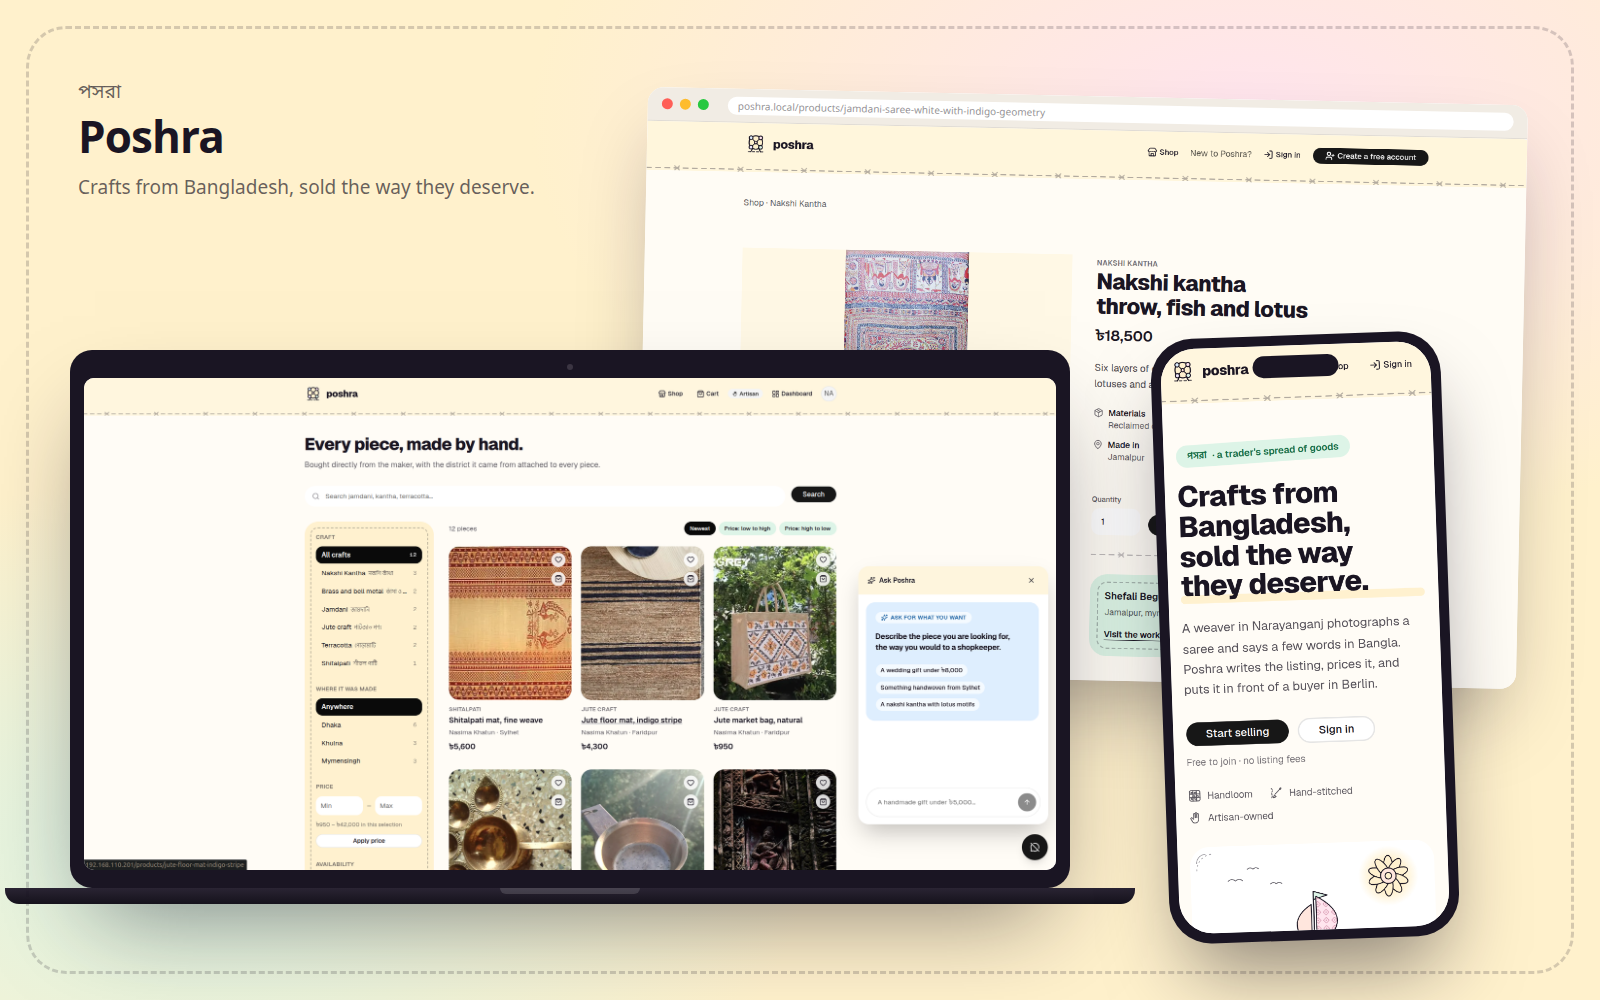
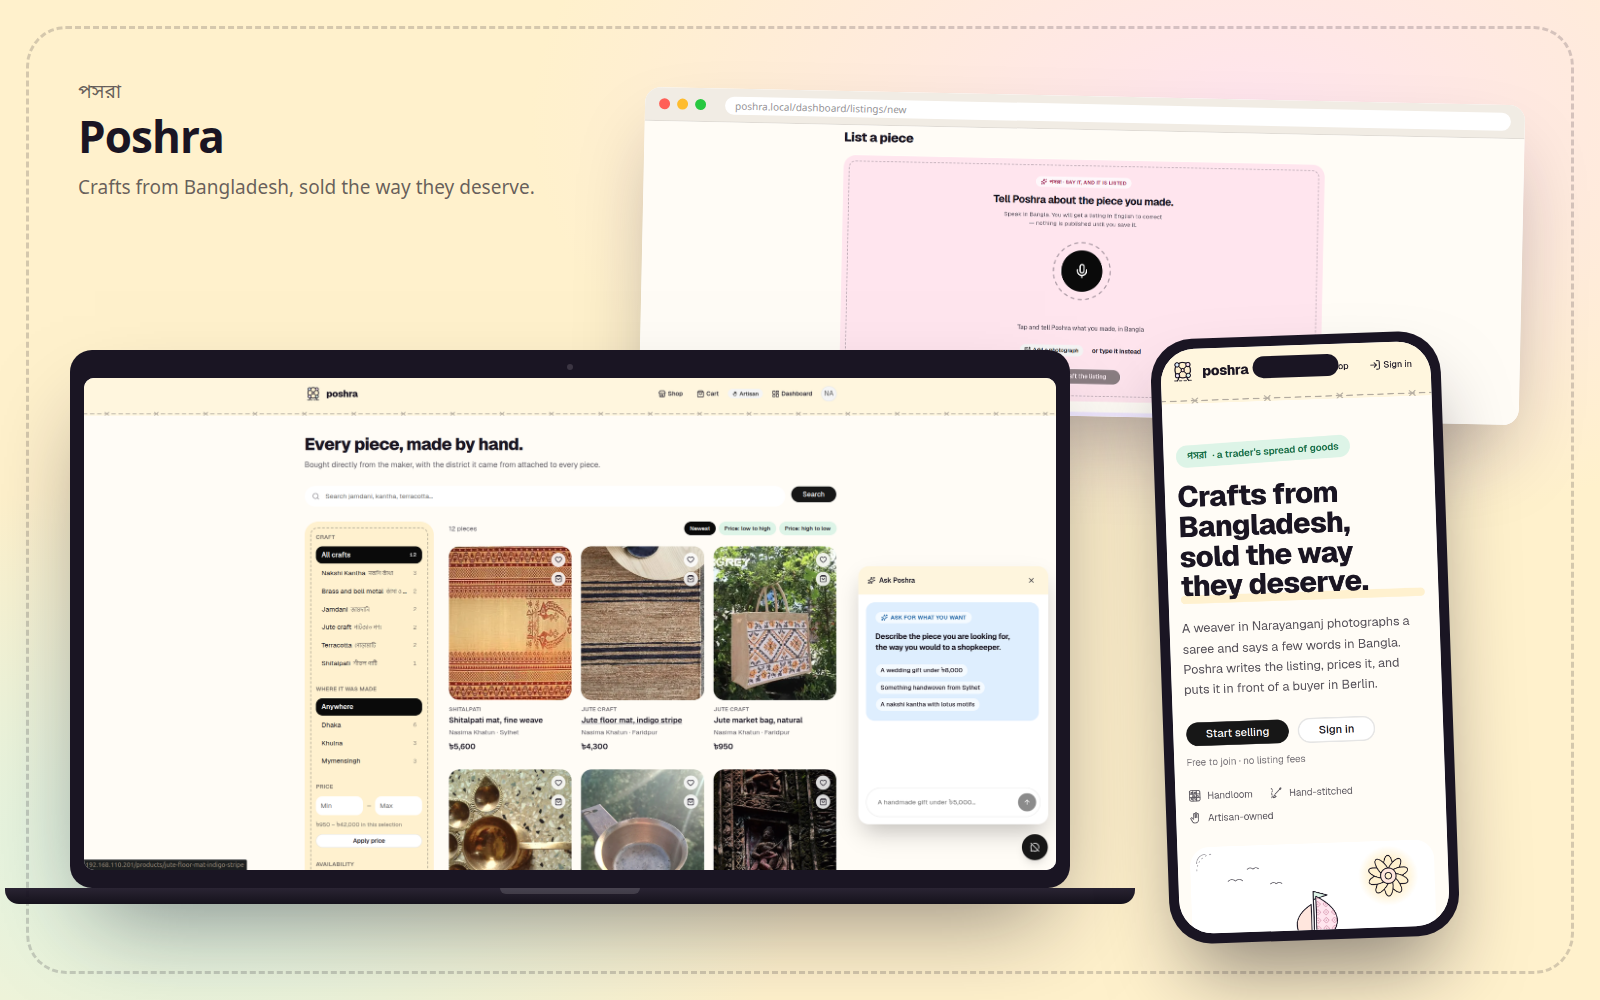
docs: put the microphone in the hero
The page that makes this project what it claims to be was in neither cover.
The hero now carries all three claims at once: the shop on a laptop, an
artisan speaking a listing into being behind it, and the storefront on a
phone.

The capture is cropped to start below the site header, so the panel and the
microphone sit above the laptop instead of behind it — the whole point of
including the page is the thing you can see.

Changed region(s): [[0.375, 0.093, 0.9688, 0.744], [0.875, 0.403, 0.9688, 0.713], [0.5, 0.248, 0.625, 0.372]]

diff --git a/docs/assets/hero.html b/docs/assets/hero.html
@@ -4,7 +4,9 @@
     <meta charset="utf-8" />
     <style>
       /* Composition for the README hero: a laptop with the shop, a browser
-         window with a product page behind it, and a phone in front. */
+         window behind it showing an artisan speaking a listing into being,
+         and a phone in front with the mobile storefront. Three things the
+         project claims, in one picture. */
       :root {
         --ink: #1a1523;
         --cream: #fffcf5;
@@ -72,7 +74,19 @@
         font-size: 10px;
         color: rgba(26, 21, 35, 0.5);
       }
-      .browser img { display: block; width: 100%; }
+      /* Trims the site header off the capture so the panel — and the
+         microphone, which is the point of the picture — sits high in the
+         window instead of behind the laptop. The region from y=150 of a
+         1999x996 capture, shown at the window's width. */
+      .browser .shot { position: relative; overflow: hidden; height: 286px; }
+      .browser .shot img {
+        position: absolute;
+        display: block;
+        width: 880px;
+        max-width: none;
+        left: 0;
+        top: -66px;
+      }
 
       /* ---------- laptop (main) ---------- */
       .laptop { position: absolute; left: 70px; bottom: 96px; width: 1000px; }
@@ -152,9 +166,9 @@
           <span class="dot" style="background: #ff5f57"></span>
           <span class="dot" style="background: #febc2e"></span>
           <span class="dot" style="background: #28c840"></span>
-          <span class="bar">poshra.local/products/jamdani-saree-white-with-indigo-geometry</span>
+          <span class="bar">poshra.local/dashboard/listings/new</span>
         </div>
-        <img src="cap-product.png" alt="" />
+        <div class="shot"><img src="cap-drafting.png" alt="" /></div>
       </div>
 
       <div class="laptop">

diff --git a/README.md b/README.md
@@ -10,7 +10,7 @@
 </p>
 
 <p align="center">
-  <img src="docs/assets/hero.png" alt="Poshra on a laptop, in a browser window and on a phone: the shop with craft filters, a nakshi kantha product page, and the mobile storefront" width="960">
+  <img src="docs/assets/hero.png" alt="Poshra on a laptop, in a browser window and on a phone: the shop with craft filters and the assistant open, an artisan speaking a listing into being, and the mobile storefront" width="960">
 </p>
 
 <p align="center">
